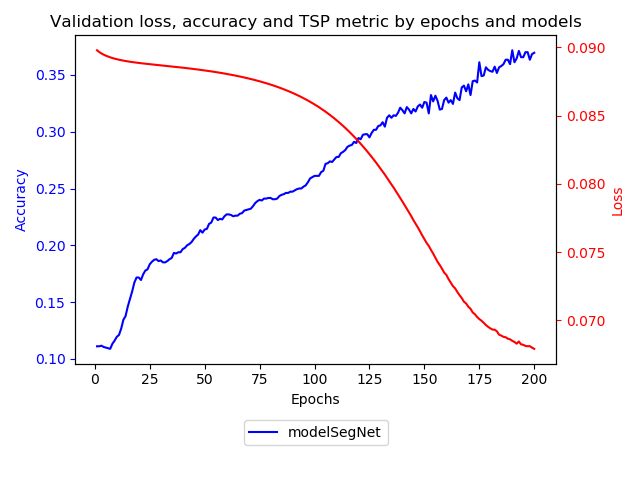
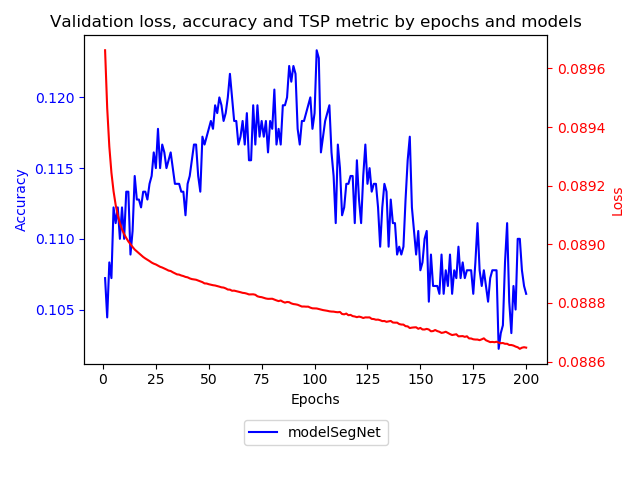
add exe_segmented_learning net

diff --git a/src/segmented_sol/exe_segmented_learning.py b/src/segmented_sol/exe_segmented_learning.py
@@ -11,6 +11,7 @@ from src.database.databaseTools import read_tsp_heuristic_solution_file
 from src.objects.objectsTools import normalize_weight_matrix
 from src import constants
 from src.segmented_sol.seg_net import SegNet
+from src.segmented_sol.seg_net2 import SegNet2
 import src.objects.orderedPath as oP
 
 
@@ -18,64 +19,35 @@ def train(model, train_set, optimizer, tsp_database_path):
     model.train()
     random.shuffle(train_set)
     sum_predictions = 0
-    sum_predicted_distances = 0
-    sum_target_distances = 0
-    instances_nb_cities = int(train_set[0].split('.')[0].split('_')[1])
     for data_file in train_set:
-        details = data_file.split('.')[0].split('_')
-        nb_cities, instance_id = int(details[1]), int(details[2])
+        visited_cities = data_file[0]
+        current_city_one_hot = data_file[1]
+        target_one_hot = data_file[2]
+        instance_id = data_file[3]
+        nb_cities = 10
         ordered_path, total_weight = read_tsp_heuristic_solution_file(nb_cities, instance_id, tsp_database_path)
         formatted_weight_matrix = \
             normalize_weight_matrix(ordered_path.get_weight_matrix()).reshape((1, nb_cities * nb_cities))
-        candidate_target = ordered_path.get_candidate()
-        sum_target_distances += int(ordered_path.distance())
-        path = np.zeros(nb_cities, dtype=int)
-        path[0] = candidate_target[0]
-        for i in range(nb_cities - 1):
-            # Building the array of the visited cities
-            visited_cities = np.zeros((1, nb_cities))
-            for k in range(i):
-                visited_cities[0, candidate_target[k]] = 1
-            # Building the one-hot array of the current city
-            current_city_one_hot = np.zeros((1, nb_cities))
-            current_city_one_hot[0, candidate_target[i]] = 1
-            # Building the input of the neural network
-            input_data = Variable(torch.tensor(
-                np.concatenate((formatted_weight_matrix, visited_cities, current_city_one_hot), axis=1),
-                dtype=torch.float), requires_grad=True)
-            # Building the expected target
-            target_one_hot = np.zeros((1, nb_cities))
-            target_one_hot[0, candidate_target[i + 1]] = 1
-            target = Variable(torch.tensor(target_one_hot, dtype=torch.float), requires_grad=True)
-            # Training number (i+1)/nb_cities for the considered TSP instance
-            optimizer.zero_grad()
-            output = model(input_data)  # calls the forward function
-            loss = model.loss_function(output, target)
-            loss.backward()
-            optimizer.step()
+        input_data = Variable(torch.tensor(
+            np.concatenate((formatted_weight_matrix, visited_cities, current_city_one_hot), axis=1),
+            dtype=torch.float), requires_grad=True)
+        target = Variable(torch.tensor(target_one_hot, dtype=torch.float), requires_grad=True)
+        city_target = np.array(torch.argmax(target.detach(), dim=1), dtype=int)
+        optimizer.zero_grad()
+        output = model(input_data)  # calls the forward function
+        loss = model.loss_function(output, target)
+        loss.backward()
+        optimizer.step()
 
-            predicted_next_city = np.array(torch.argmax(output.detach(), dim=1), dtype=int)
-            sum_predictions += int(predicted_next_city == candidate_target[i + 1])
-            # Building the array of the predicted visited cities
-            next_city = 0
-            maxi = 0
-            np_output = output.detach().numpy()[0]
-            for city in range(nb_cities):
-                if not(city in path[:i+1]):
-                    if np_output[city] > maxi:
-                        maxi = np_output[city]
-                        next_city = city
-            path[i+1] = next_city
+        predicted_next_city = np.array(torch.argmax(output.detach(), dim=1), dtype=int)
+        sum_predictions += int(predicted_next_city == city_target)
 
-        candidate_predicted = oP.OrderedPath(path, ordered_path.get_weight_matrix())
-        sum_predicted_distances += int(candidate_predicted.distance())
 
     train_set_size = len(train_set)
-    total_predictions = train_set_size * (instances_nb_cities - 1)
+    total_predictions = train_set_size
     print('Training indicators : ' +
-          'Accuracy (predictions): {:.2f}%, Distance average target: {:.2f}, Distance average predicted: {:.2f}'.format(
-              (sum_predictions / total_predictions), sum_target_distances / train_set_size,
-              sum_predicted_distances / train_set_size))
+          'Accuracy (predictions): {:.2f}%'.format(
+              (sum_predictions / total_predictions)))
     return model
 
 
@@ -84,43 +56,32 @@ def valid(model, valid_set, epoch, tsp_database_path):
     random.shuffle(valid_set)
     valid_loss = 0
     sum_predictions = 0
-    instances_nb_cities = int(valid_set[0].split('.')[0].split('_')[1])
     for data_file in valid_set:
-        details = data_file.split('.')[0].split('_')
-        nb_cities, instance_id = int(details[1]), int(details[2])
+        visited_cities = data_file[0]
+        current_city_one_hot = data_file[1]
+        target_one_hot = data_file[2]
+        instance_id = data_file[3]
+        nb_cities = 10
         ordered_path, total_weight = read_tsp_heuristic_solution_file(nb_cities, instance_id, tsp_database_path)
         formatted_weight_matrix = \
             normalize_weight_matrix(ordered_path.get_weight_matrix()).reshape((1, nb_cities * nb_cities))
-        candidate_target = ordered_path.get_candidate()
-        for i in range(nb_cities - 1):
-            # Building the array of the visited cities
-            visited_cities = np.zeros((1, nb_cities))
-            for k in range(i):
-                visited_cities[0, candidate_target[k]] = 1
-            # Building the one-hot array of the current city
-            current_city_one_hot = np.zeros((1, nb_cities))
-            current_city_one_hot[0, candidate_target[i]] = 1
-            # Building the input of the neural network
-            input_data = Variable(torch.tensor(
-                np.concatenate((formatted_weight_matrix, visited_cities, current_city_one_hot), axis=1),
-                dtype=torch.float), requires_grad=True)
-            # Building the expected target
-            target_one_hot = np.zeros((1, nb_cities))
-            target_one_hot[0, candidate_target[i + 1]] = 1
-            target = Variable(torch.tensor(target_one_hot, dtype=torch.float), requires_grad=True)
+        input_data = Variable(torch.tensor(
+            np.concatenate((formatted_weight_matrix, visited_cities, current_city_one_hot), axis=1),
+            dtype=torch.float), requires_grad=True)
+        target = Variable(torch.tensor(target_one_hot, dtype=torch.float), requires_grad=True)
+        city_target = np.array(torch.argmax(target.detach(), dim=1), dtype=int)
+        output = model(input_data)  # calls the forward function
+        valid_loss += model.loss_function(output, target)
 
-            output = model(input_data)  # calls the forward function
-            valid_loss += model.loss_function(output, target)
+        predicted_next_city = np.array(torch.argmax(output.detach(), dim=1), dtype=int)
+        sum_predictions += int(predicted_next_city == city_target)
 
-            predicted_next_city = np.array(torch.argmax(output.detach(), dim=1), dtype=int)
-            sum_predictions += int(predicted_next_city == candidate_target[i + 1])
-
-    valid_set_size = len(valid_set)
-    total_predictions = valid_set_size * (instances_nb_cities - 1)
+    total_predictions = len(valid_set)
+    accuracy = sum_predictions/total_predictions
     valid_loss /= total_predictions
-    print('Epoch {} - valid set: Average loss: {:.4f}, Accuracy: {}/{} ({:.0f}%)\n'.format(
-        epoch, valid_loss, sum_predictions, total_predictions, 100. * sum_predictions / total_predictions))
-    return sum_predictions / total_predictions, valid_loss
+    print('Epoch {} - valid set: Accuracy (predictions): {:.2f}%, loss: {:.2f}'.format(
+              epoch, accuracy, valid_loss))
+    return accuracy, valid_loss
 
 
 def test(model, test_set, tsp_database_path):
@@ -128,38 +89,26 @@ def test(model, test_set, tsp_database_path):
     random.shuffle(test_set)
     sum_predictions = 0
     test_loss = 0
-    instances_nb_cities = int(test_set[0].split('.')[0].split('_')[1])
     for data_file in test_set:
-        details = data_file.split('.')[0].split('_')
-        nb_cities, instance_id = int(details[1]), int(details[2])
+        visited_cities = data_file[0]
+        current_city_one_hot = data_file[1]
+        target_one_hot = data_file[2]
+        instance_id = data_file[3]
+        nb_cities = 10
         ordered_path, total_weight = read_tsp_heuristic_solution_file(nb_cities, instance_id, tsp_database_path)
         formatted_weight_matrix = \
             normalize_weight_matrix(ordered_path.get_weight_matrix()).reshape((1, nb_cities * nb_cities))
-        candidate_target = ordered_path.get_candidate()
-        for i in range(nb_cities - 1):
-            # Building the array of the visited cities
-            visited_cities = np.zeros((1, nb_cities))
-            for k in range(i):
-                visited_cities[0, candidate_target[k]] = 1
-            # Building the one-hot array of the current city
-            current_city_one_hot = np.zeros((1, nb_cities))
-            current_city_one_hot[0, candidate_target[i]] = 1
-            # Building the input of the neural network
-            input_data = Variable(torch.tensor(
-                np.concatenate((formatted_weight_matrix, visited_cities, current_city_one_hot), axis=1),
-                dtype=torch.float), requires_grad=True)
-            # Building the expected target
-            target_one_hot = np.zeros((1, nb_cities))
-            target_one_hot[0, candidate_target[i + 1]] = 1
-            target = Variable(torch.tensor(target_one_hot, dtype=torch.float), requires_grad=True)
+        input_data = Variable(torch.tensor(
+            np.concatenate((formatted_weight_matrix, visited_cities, current_city_one_hot), axis=1),
+            dtype=torch.float), requires_grad=True)
+        target = Variable(torch.tensor(target_one_hot, dtype=torch.float), requires_grad=True)
+        city_target = np.array(torch.argmax(target.detach(), dim=1), dtype=int)
+        output = model(input_data)  # calls the forward function
+        test_loss += model.loss_function(output, target)
+        predicted_next_city = np.array(torch.argmax(output.detach(), dim=1), dtype=int)
+        sum_predictions += int(predicted_next_city == city_target)
 
-            output = model(input_data)  # calls the forward function
-            test_loss += model.loss_function(output, target)
-
-            predicted_next_city = np.array(torch.argmax(output.detach(), dim=1), dtype=int)
-            sum_predictions += int(predicted_next_city == candidate_target[i + 1])
-
-    total_predictions = len(test_set) * (instances_nb_cities - 1)
+    total_predictions = len(test_set)
     test_loss /= total_predictions
     print('\n' + "test" + ' set: Average loss: {:.4f}, Accuracy: {}/{} ({:.0f}%)\n'.format(
         test_loss, sum_predictions, total_predictions, 100. * sum_predictions / total_predictions))
@@ -170,12 +119,15 @@ def experiment(model, epochs, lr, train_set, valid_set, tsp_database_path):
     best_model = model
     accuracy_by_epochs = []
     valid_loss_by_epochs = []
+    predicted_distances_by_epochs = []
+    target_distances_by_epochs = []
     # optimizer = optim.Adam(model.parameters(), lr=lr)
     optimizer = optim.SGD(model.parameters(), lr=lr)
 
     for epoch in range(1, epochs + 1):
         model = train(model, train_set, optimizer, tsp_database_path)
         precision, loss = valid(model, valid_set, epoch, tsp_database_path)
+
         accuracy_by_epochs.append(precision)
         valid_loss_by_epochs.append(loss)
         if precision > best_precision:
@@ -187,41 +139,66 @@ def experiment(model, epochs, lr, train_set, valid_set, tsp_database_path):
 
 if __name__ == '__main__':
     # Parameters
-    tsp_heuristic_database_path = "../../" + constants.PARAMETER_TSP_DATA_FILES
+    tsp_heuristic_database_path = "../../" + constants.PARAMETER_TSP_NNH_TWO_OPT_DATA_FILES
     number_cities = 10
     train_proportion = 0.8
     valid_proportion = 0.1
     test_proportion = 0.1
     over_fit_one_instance = False
-    Models = [SegNet(number_cities)]  # add your models in the list
+    #Models = [SegNet(number_cities), SegNet2(number_cities)]  # add your models in the list
+    Models = [SegNet2(number_cities)]  # add your models in the list
     nb_epochs = 200
     learning_rate = 0.001
 
     # Preparation of the TSP dataSet
     tsp_database_files = [file_name for file_name in os.listdir(tsp_heuristic_database_path)
                           if file_name.split('.')[1] == 'heuristic']
-    random.shuffle(tsp_database_files)
-    tsp_database_size = len(tsp_database_files)
-    if over_fit_one_instance:
-        tsp_database_files = [tsp_database_files[0]] * tsp_database_size
+    tsp_city_nextcity = []
+    for data_file in tsp_database_files:
+        details = data_file.split('.')[0].split('_')
+        nb_cities, instance_id = int(details[1]), int(details[2])
+        ordered_path, total_weight = read_tsp_heuristic_solution_file(nb_cities, instance_id, tsp_heuristic_database_path)
+        candidate_target = ordered_path.get_candidate()
+        visited_cities = np.zeros((1, nb_cities))
+        for i in range (nb_cities-1):
+            city_nextcity = []
+            # fst arg : visited cities
+            visited_cities[0, candidate_target[i]] = 1
+            city_nextcity.append(visited_cities)
+            # snd arg : current city
+            current_city_one_hot = np.zeros((1, nb_cities))
+            current_city_one_hot[0, candidate_target[i]] = 1
+            city_nextcity.append(current_city_one_hot)
+            # thrd arg : target
+            target_one_hot = np.zeros((1, nb_cities))
+            target_one_hot[0, candidate_target[i + 1]] = 1
+            city_nextcity.append(target_one_hot)
+            # frth arg : instance id
+            city_nextcity.append(instance_id)
+            tsp_city_nextcity.append(city_nextcity)
 
-    bound_1 = round(train_proportion * tsp_database_size)
-    bound_2 = round((train_proportion + valid_proportion) * tsp_database_size)
-    train_data = tsp_database_files[0:bound_1]
-    valid_data = tsp_database_files[bound_1:bound_2]
-    test_data = tsp_database_files[bound_2:]
+    random.shuffle(tsp_city_nextcity)
+    tsp_city_nextcity_size = len(tsp_city_nextcity)
+    if over_fit_one_instance:
+        tsp_city_nextcity = [tsp_city_nextcity[0]] * tsp_city_nextcity_size
+
+    bound_1 = round(train_proportion * tsp_city_nextcity_size)
+    bound_2 = round((train_proportion + valid_proportion) * tsp_city_nextcity_size)
+    train_data = tsp_city_nextcity[0:bound_1]
+    valid_data = tsp_city_nextcity[bound_1:bound_2]
+    test_data = tsp_city_nextcity[bound_2:]
 
     # Experimentation of the different models on the TSP dataSet
-    best_precision_ = 0
+    best_precision = 0
     best_model_ = Models[0]
     results = []
     for model_ in Models:
-        model_, precision_, accuracy_by_epochs_, valid_loss_by_epochs_ = \
+        model_, precision, accuracy_by_epochs_, valid_loss_by_epochs_ = \
             experiment(model_, epochs=nb_epochs, lr=learning_rate, train_set=train_data, valid_set=valid_data,
                        tsp_database_path=tsp_heuristic_database_path)
         results.append((model_.name, accuracy_by_epochs_, valid_loss_by_epochs_))
-        if precision_ > best_precision_:
-            best_precision_ = precision_
+        if precision > best_precision:
+            best_precision = precision
             best_model_ = model_
 
     test(best_model_, test_data, tsp_heuristic_database_path)
@@ -242,11 +219,9 @@ if __name__ == '__main__':
     ax1.set_xlabel("Epochs")
     plt.title("Validation loss, accuracy and TSP metric by epochs and models")
     ax2 = ax1.twinx()  # instantiate a second axes that shares the same x-axis
-    # ax3 = ax1.twinx()  # instantiate a third axes that shares the same x-axis
-    # ax3.spines["right"].set_position(("axes", 1.2))  # insert a spine for the third y-axis
+    #ax3.spines["right"].set_position(("axes", 1.2))  # insert a spine for the third y-axis
     ax1.set_ylabel("Accuracy")
     ax2.set_ylabel("Loss")
-    # ax3.set_ylabel("TSP Metric : Number of duplicates")
 
     epochs_ = range(1, len(results[0][1]) + 1)
     models_name = ""
@@ -254,21 +229,26 @@ if __name__ == '__main__':
     for index, res in enumerate(results):
         models_name += '_' + res[0]
         # Accuracy curve
-        p1, = ax1.plot(epochs_, res[1], linestyle=line_styles[index % len(line_styles)], color='b',
-                       label="model" + res[0])
-        lines.append(p1)
+        p1, = ax1.plot(epochs_, res[1], linestyle=line_styles[index % len(line_styles)], color='b', label="model" + res[0])
+
         # Valid loss curve
         p2, = ax2.plot(epochs_, res[2], linestyle=line_styles[index % len(line_styles)], color='r')
-        # Duplicates curve
-        # p3, = ax3.plot(epochs_, res[3], linestyle=line_styles[index % len(line_styles)], color='g')
+        # prediction distance curve
+        #p3, = ax3.plot(epochs_, res[3], linestyle=line_styles[index % len(line_styles)], color='g')
+        #lines.append(p3)
+        # target distance curve
+        #p4, = ax3.plot(epochs_, res[4], linestyle=line_styles[index % len(line_styles)], color='y')
+
 
         if index == 0:  # Set color for each y-axis and their label
             ax1.yaxis.label.set_color(p1.get_color())
             ax2.yaxis.label.set_color(p2.get_color())
-            # ax3.yaxis.label.set_color(p3.get_color())
+            #ax3.yaxis.label.set_color(p3.get_color())
+            #ax4.yaxis.label.set_color(p4.get_color())
             ax1.tick_params(axis='y', colors=p1.get_color())
             ax2.tick_params(axis='y', colors=p2.get_color())
-            # ax3.tick_params(axis='y', colors=p3.get_color())
+            #ax3.tick_params(axis='y', colors=p3.get_color())
+            #ax4.tick_params(axis='y', colors=p4.get_color())
 
     fig.tight_layout()  # otherwise the right y-label is slightly clipped
     # Shrink current axis's height by 15% on the bottom + Put a legend below current axis

diff --git a/src/segmented_sol/seg_net2.py b/src/segmented_sol/seg_net2.py
@@ -1,0 +1,23 @@
+import torch
+import torch.nn as nn
+import torch.nn.functional as F
+
+
+# The class of the model
+class SegNet2(nn.Module):
+    # the definition of the layers
+    def __init__(self, nb_cities):
+        super(SegNet2, self).__init__()
+        self.name = "SegNet"
+        self.nb_cities = nb_cities
+        square_nb_cities = nb_cities * nb_cities
+
+        self.fc1 = nn.Linear(square_nb_cities+nb_cities*2, 50)
+        self.fc2 = nn.Linear(50, nb_cities)
+        self.loss_function = torch.nn.MSELoss()
+
+    # the definition of the activation functions
+    def forward(self, x):
+        x = F.relu(self.fc1(x))
+        x = F.softmax(self.fc2(x), dim=1)
+        return x
